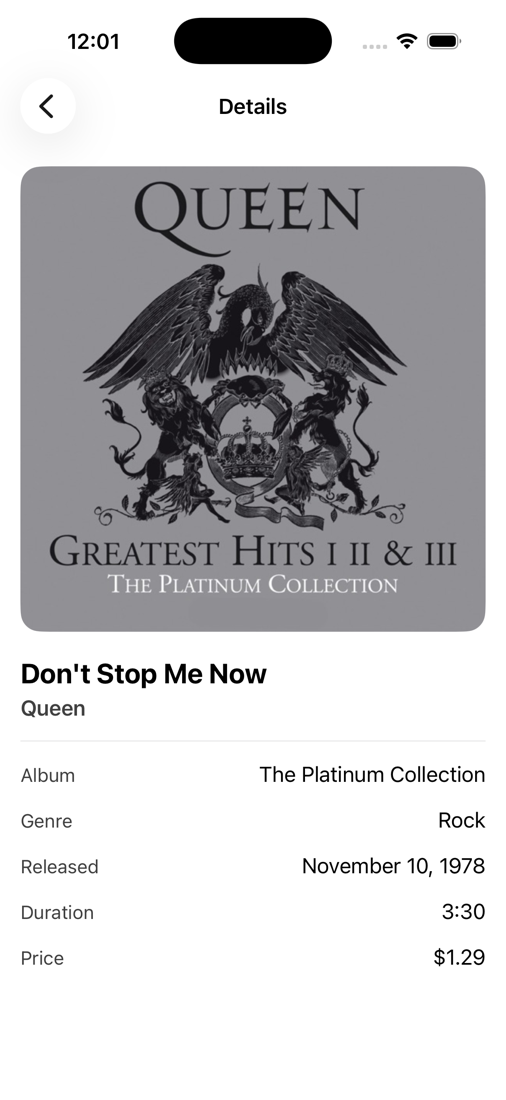
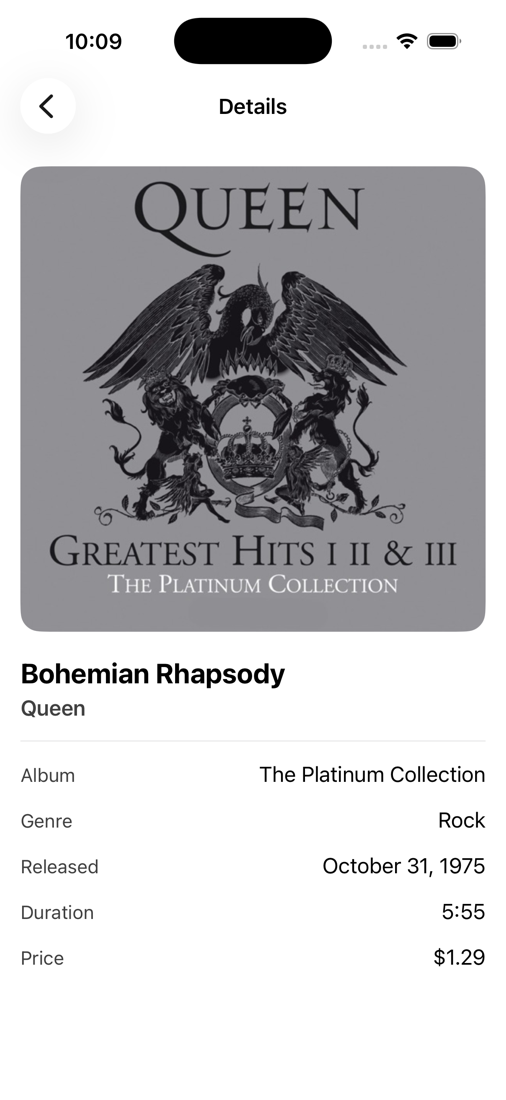
Refresh the README screenshots and state what was verified
- On iOS 26 the search field of an iPhone sits at the bottom of the screen, so the five screenshots were
  retaken from the current app.
- State where the app was actually verified (iOS 26.4 on iPhone and iPad in light and dark mode, and iOS 17.5)
  and what was not (a real device, iOS 17.6 to 25).
- Remove the outdated remark that Presentation uses UIKit.

diff --git a/README.md b/README.md
@@ -122,5 +122,5 @@ The brief asks for a simple exercise, so these were considered and dropped:
 ## Known limitations
 
 - At most 25 results per search; prices are always USD. The detail artwork depends on Apple's `100x100bb` URL format.
-- Accessibility audits ran in light mode only and exempt two iOS-owned controls (the search field's clear button and the keyboard's prediction bar). Spanish has not been reviewed by a native speaker.
-- The package targets iOS only (`Presentation` uses UIKit).
+- Verified on simulators only: iOS 26.4 (iPhone 17 and iPad, light and dark mode) and iOS 17.5 (iPhone 15, with the deployment target lowered to 17.0); not on a real device or on iOS 17.6 to 25. The accessibility audits exempt anything inside the system search field and the keyboard, which the app cannot change. Spanish has not been reviewed by a native speaker.
+- The package targets iOS only.

diff --git a/CLAUDE.md b/CLAUDE.md
@@ -53,4 +53,4 @@ App iOS de búsqueda de canciones sobre la iTunes Search API (`https://itunes.ap
 - Las carpetas del target de la app y de los tests usan *synchronized groups*: los archivos entran solos. No editar `project.pbxproj` a mano salvo para ajustes de build.
 - Un solo simulador a la vez; no compilar Release salvo que se pida.
 - **Commits sin ninguna atribución a Claude** (sin `Co-Authored-By` ni "Generated with"); solo se commitea cuando se pide.
-- Sin verificar todavía: VoiceOver real, modo oscuro, Release, iPad en horizontal y Split View.
+- Verificado en simuladores: iOS 26.4 (iPhone 17 y iPad, claro y oscuro) e iOS 17.5 (iPhone 15, con el objetivo bajado a 17.0). Sin verificar: dispositivo real, VoiceOver real, Release, iPad en horizontal y Split View.
